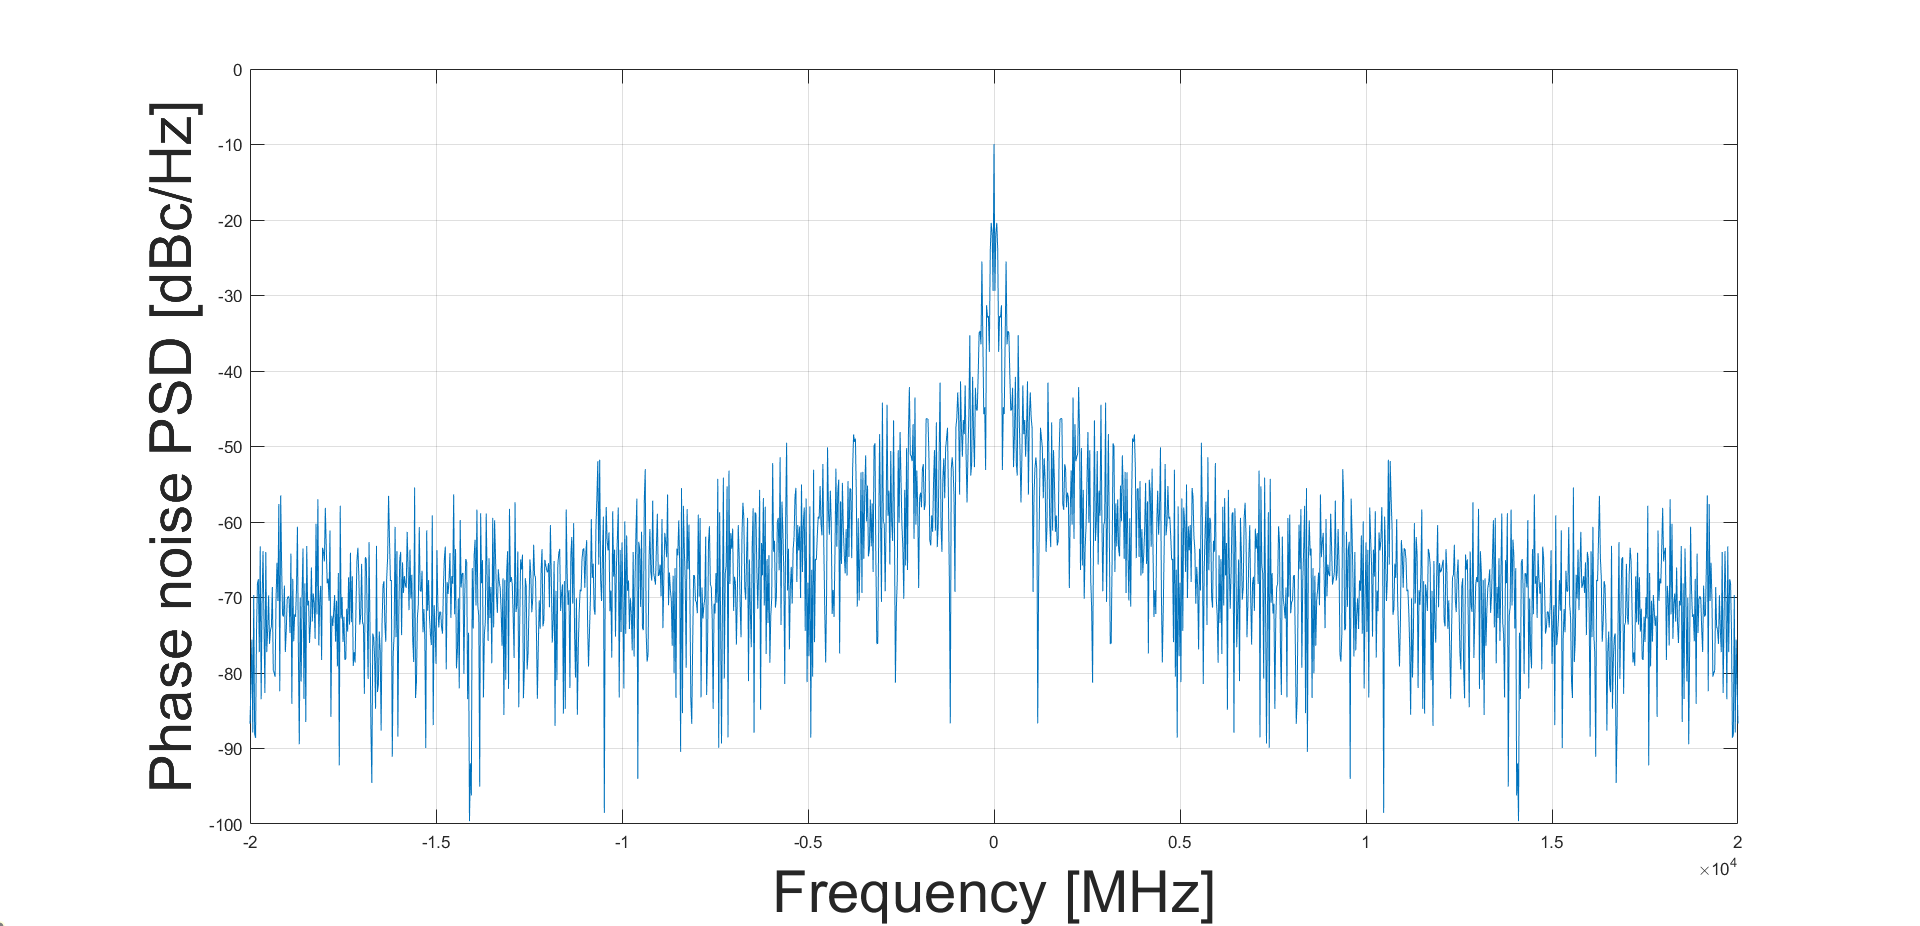
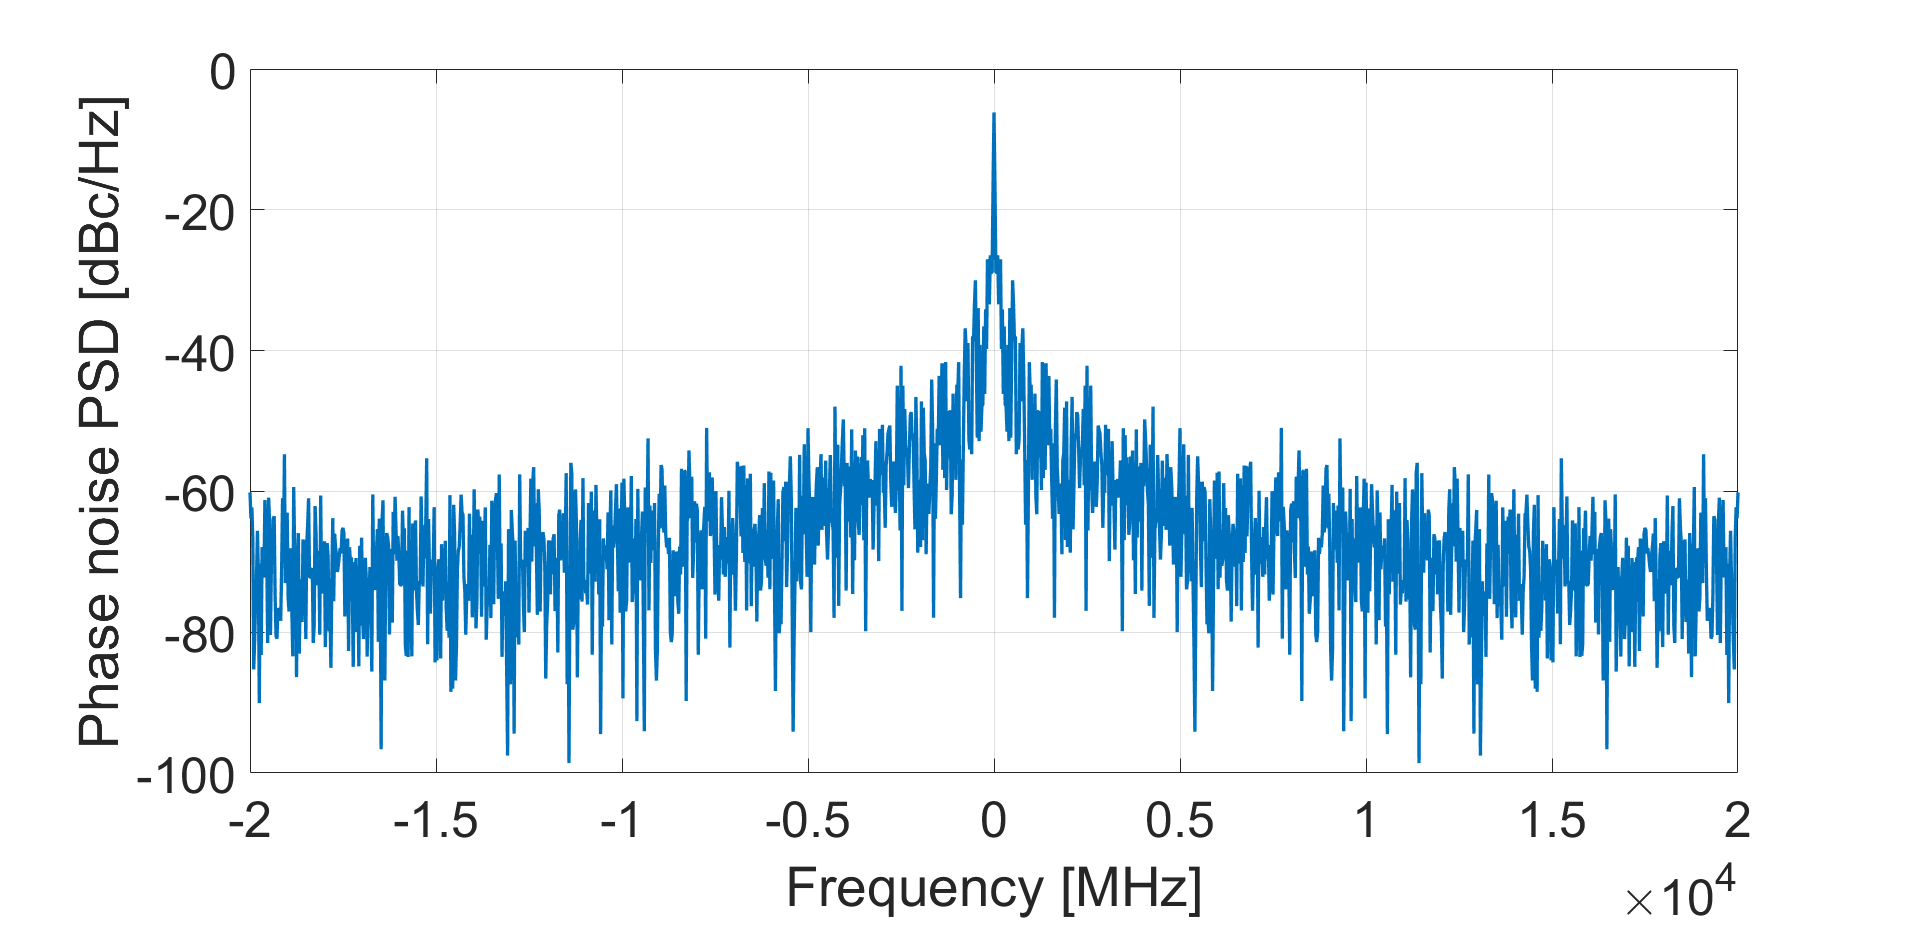
added more data

diff --git a/Source/united_plots.m b/Source/united_plots.m
@@ -70,7 +70,7 @@ max_phot = (avg_p-avg_m)*sqrt(2);
 
 g = zeros(10, length(x));
 q = zeros(10, length(x));
-data_string = "0_disp_10_km_1khz_-80dbm";
+data_string = "17_disp_Lmax_km_1khz_-infdbm";
 
 for i=2:10
     a = load("../Data/" + data_string + "/"+ i +"_bit.mat");
@@ -84,22 +84,26 @@ C_s2 = log2(1+2*max_phot)*0.5;
 
 figure("Name", "Mutual Information")
 hold on
-for i=2:10
-    plot(max_phot, g(i,:), "DisplayName",2^i +"QAM", LineWidth=2, Color="#0072BD")
+style = ["-","--","-."];
+for i=10:-1:2
+    Cm = max(g(i,:));
+    p = plot(max_phot, g(i,:), "DisplayName",2^i +"QAM, max MI = " + Cm, LineWidth=2);
+    p.LineStyle=style(mod(i,3)+1);
 end
 
-for i=2:9
-     text(13 + (-1)^i, g(i,end)-0.05, 2^i +"QAM", fontsize=15)
-end
-i = 10;
-    text(13 + (-1)^i, g(i,end)+0.04, 2^i +"QAM", fontsize=15)
+% for i=2:9
+%      text(13 + (-1)^i, g(i,end)-0.05, 2^i +"QAM", fontsize=15)
+% end
+% i = 10;
+%     text(13 + (-1)^i, g(i,end)+0.04, 2^i +"QAM", fontsize=15)
 
-plot(max_phot, C_h, DisplayName="Holevo Bound", LineWidth=2)
-text(12, C_h(end)-0.05, "Holevo Bound", fontsize=25)
-plot(max_phot, C_s2, DisplayName="Shannon Bound", LineWidth=2)
-text(12, C_s2(end)-0.38,"Shannon Bound", fontsize=25)
-%legend("FontSize",15)
-xlim([2, max_phot(end)])
+%plot(max_phot, C_h, DisplayName="Holevo Bound", LineWidth=2, HandleVisibility="off")
+%text(12, C_h(end)-0.26, "Holevo Bound", fontsize=25)
+%plot(max_phot, C_s2, DisplayName="Shannon Bound", LineWidth=2, HandleVisibility="off")
+%text(12, C_s2(end)-0.64,"Shannon Bound", fontsize=25)
+legend("FontSize",18, Location="best", NumColumns=1)
+xlim([1, max_phot(end)])
+ylim([0.2, 1.2])
 xlabel("# Photon", FontSize=45)
 ylabel("Mutual Information [bits]", FontSize=45)
 grid on
@@ -108,13 +112,14 @@ ax.FontSize = 30;
 
 figure("Name", "Bit error rate")
 for i=2:10
-    semilogy(max_phot, q(i,:), "DisplayName",2^i +"QAM", LineWidth=2)
+    p = semilogy(max_phot, q(i,:), "DisplayName",2^i +"QAM", LineWidth=2);
+    p.LineStyle=style(mod(i,3)+1);
     hold on
 end
-xlim([2, max_phot(end)])
+xlim([1, max_phot(end)])
 xlabel("# Photon", FontSize=45)
 ylabel("Bit Error Rate", FontSize=45)
 legend("FontSize",25, 'Location', 'best', 'NumColumns', ceil(numel(findall(gca, 'Type', 'line')) / 2));
-grid on
+grid minor
 ax = gca; % Get the current axis
 ax.FontSize = 30;

diff --git a/Source/QAM_QKD_symbol_constellation.m b/Source/QAM_QKD_symbol_constellation.m
@@ -19,7 +19,7 @@ ps = 1e-12;
 mW = 1e-3;
 
 %% CONSTANTS
-symbol = (-1+5i);
+symbol = (-1+3i);
 B = 28*GHz;
 c = 299792458;
 h = 6.62607015e-34;
@@ -48,7 +48,7 @@ maximum_field = 1e1; %Incoming signal field
 %% LO DATA
 lo.linewidth = 1*kHz;
 lo.lambda = 1550*nm;
-lo.PSD = -inf;
+lo.PSD = -60;
 lo.field = 1e2;
 fc = c/lo.lambda;
 
@@ -86,10 +86,10 @@ max_phot_p = (avg_p-avg_m);
 %% DISPERSION CALCULATION
 
 lambda_vector = c./(f+fc);
-D = 20*(ps/(nm*km));
+D = 0*(ps/(nm*km));
 Lmax = c/(4*D*lo.lambda^2*B^2);
 
-Communication_lenght = Lmax;
+Communication_lenght = 10;
 beta_compensation = D*(((lo.lambda .*f).^2)*pi/c);
 
 beta = beta_compensation;
@@ -186,7 +186,7 @@ scatter(real(total_symbols), imag(total_symbols), 'yellow', '*')
 pbaspect([1 1 1])
 
 %% CALIBRATION RUN
-
+og_symbol = symbol;
 symbol = 1+1i;
 %num_test = 1;
 
@@ -246,9 +246,14 @@ figure
 hold on
 title("Calibrated constellation : " + 2^n_bit + "QAM")
 scatter(inphase/t_mean_inphase, inquadrature/t_mean_inquadrature, 'blue')
-plot(real(total_symbols), imag(total_symbols), '*', 'MarkerFaceColor','yellow', 'MarkerSize', 16);
-grid on
+plot(real(total_symbols), imag(total_symbols), 'o', 'MarkerSize', 16, 'LineWidth',2.5);
+plot(real(og_symbol), imag(og_symbol), 'o', 'MarkerSize', 16, 'LineWidth',2.5, Color='yellow');
+grid minor
 pbaspect([1 1 1])
+ax = gca; % Get the current axis
+ax.FontSize = 30;
+xticks(symbol_vec)
+yticks(symbol_vec)
 
 function [s] = decode_qam(symbol, max_symbol)
     p = real(symbol);

diff --git a/Source/QAM_QKD_channel_capacity_plots.m b/Source/QAM_QKD_channel_capacity_plots.m
@@ -37,8 +37,8 @@ eta = 1;
 maximum_field = 1e1;
 
 %% LO DATA
-lo.linewidth = 10*kHz;
-lo.PSD = -60;
+lo.linewidth = 1*kHz;
+lo.PSD = -80;
 lo.lambda = 1550*nm;
 lo.field = 1e1;
 fc = c/lo.lambda;
@@ -53,7 +53,7 @@ E_vector = linspace(1e1, 5e2, N_e_vector);
 MI_vector = zeros(1,N_e_vector);
 
 %% CONSTELLATION DATA
-n_bit = 2;
+n_bit = 3;
 M = 2^n_bit;
 total_symbols = qammod(0:M-1, M);
 symbol_vec = unique(real(total_symbols));
@@ -64,11 +64,11 @@ num_test = 1000;
 
 lambda_vector = c./(f+fc);
 
-D = 0*(ps/(nm*km));
+D = 17*(ps/(nm*km));
 beta = D*((lo.lambda.*f).^2*pi/c);
 Lmax = c/(4*D*lo.lambda^2*B^2);
 
-Communication_lenght = 10;
+Communication_lenght = Lmax;
 ff = exp(-1i*beta*Communication_lenght);
 tt = ifftshift(ifft(ifftshift(ff)));
 

diff --git a/Source/phase_noise_lorentzian.m b/Source/phase_noise_lorentzian.m
@@ -54,15 +54,19 @@ plot(10*log10(abs(S_f)))
 
 figure
 grid on
-plot(phi)
+plot(phi, LineWidth=2)
 ylabel("Lorentzian random walk", FontSize=40)
 xlabel("Sample number", FontSize=40)
 grid on
 xlim([0 sample_num])
+ax = gca; % Get the current axis
+ax.FontSize = 30;
 
 ff = fftshift(fft(phi));
 figure
-plot(f/MHz, 20*log10(abs(ff)/lo.field))
+plot(f/MHz, 20*log10(abs(ff)/lo.field), LineWidth=2)
 ylabel("Phase noise PSD [dBc/Hz]", FontSize=35)
 xlabel("Frequency [MHz]", FontSize=35)
 grid on
+ax = gca; % Get the current axis
+ax.FontSize = 30;
